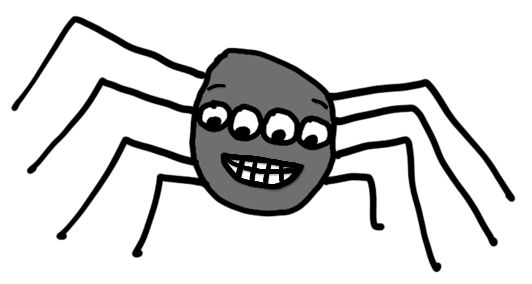
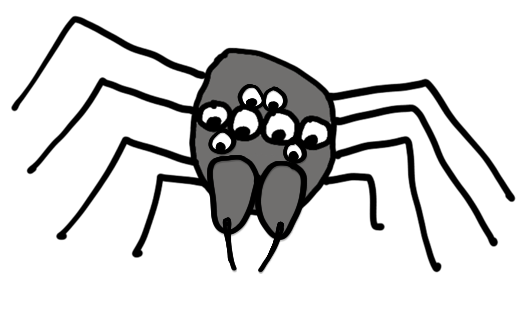
feat(prd-14): Complete Milestone 1 - Asset preparation
- Rename spider images: v2→v1, v3→v2
- Add new v3 artwork (scariest spider versions)
- Note: V3 images have different dimensions than v1/v2
- Update PRD with dimension testing reminder
- All spider image assets properly versioned

🤖 Generated with [Claude Code](https://claude.com/claude-code)

Changed region(s): [[0.0, 0.0282, 0.9925, 0.9577]]

diff --git a/prds/14-v2-spider-anatomy-comments-coderabbit-issues.md b/prds/14-v2-spider-anatomy-comments-coderabbit-issues.md
@@ -298,6 +298,8 @@ Add comments about "wildly scariest spider image yet" and introduce cascading Ku
 - [ ] Create and add new v3 artwork (scariest spiders version)
 - [ ] Commit asset changes to branch
 
+**Important Note**: V3 spider image has different dimensions than v1/v2. Extra testing required during v3 implementation to ensure proper display and scaling.
+
 **Success Criteria**: All spider image assets are properly versioned and committed
 
 ---
@@ -345,6 +347,9 @@ Add comments about "wildly scariest spider image yet" and introduce cascading Ku
 - [ ] Add sed/yaml modification to break liveness probe (path: `/healthz`, port: `9090`)
 - [ ] Script creates feature branch automatically
 - [ ] Test script execution with active cluster
+- [ ] Test v3 spider image display and scaling (v3 has different dimensions than v1/v2)
+
+**Important Note**: V3 spider image has different dimensions than v1/v2. Test carefully to ensure proper display.
 
 **Success Criteria**: Script successfully generates v2→v3 transition with demo PRD and all 3 K8s failures
 
